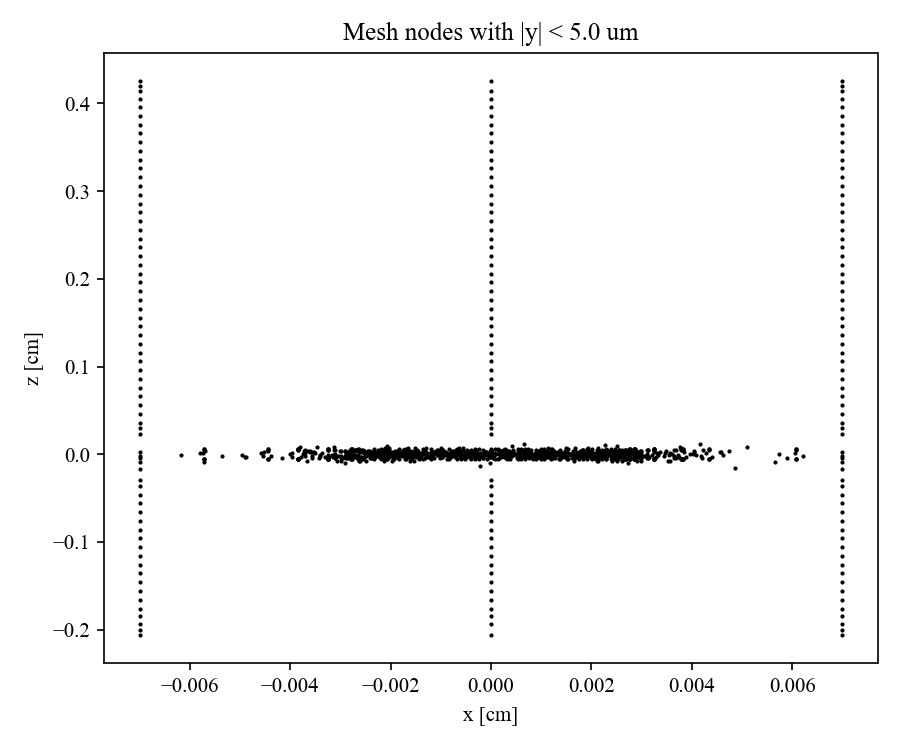
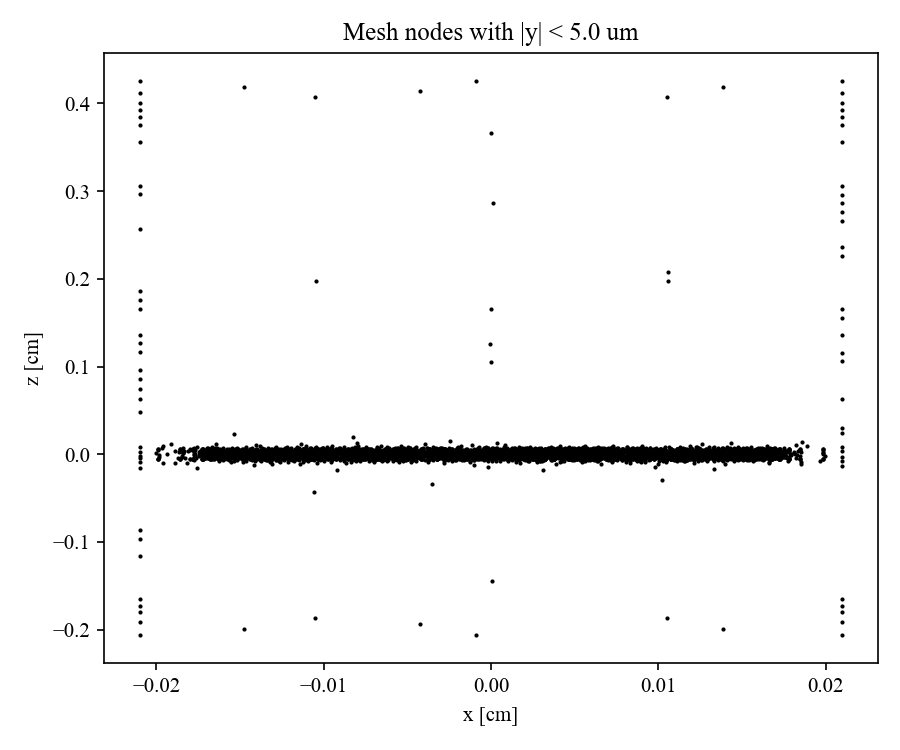
Tile the single-GEM100 test bed 3x3, confirming transfer-field dependence was masked by the untiled cell's boundary
A single, untiled hex cell has no neighboring hole for a laterally
diffusing electron to end up in, making its own lateral (x/y) domain
boundary a large loss channel -- exactly the artifact already fixed for
the 3-GEM stack (hole_centers_tiled). Add n_cells_x/n_cells_y (default
3x3, matching TripleGemTestConfig) to SingleGemTestConfig and switch
build_single_gem_field_model from hole_centers() to hole_centers_tiled(),
propagating the tiled half-extents through build_gem_layer,
build_hole_gas_volumes, and _add_gas_box (now shaped like
triple_gem_field_model.py's version).

Rebuilt+resolved single_gem100_field at both tf=2000 and tf=10000 V/cm
(21785 -> 303097 nodes, Elmer converges in ~48s) and reran the
plane-crossing scan on fresh 50-event trajectory exports.

Result: with tiling, transfer-gap penetration depth is field-dependent and
substantial even at the baseline field -- 8.8% of the extracted cohort
reaches 90% of the gap at tf=2000 V/cm (vs 0% untiled), rising to 43.2% at
tf=10000 V/cm. The lateral-boundary artifact share of "died in transfer
gap" drops from 56-93% (untiled) to 40-47% (tiled), now in line with the
3-GEM stack's own ~51%. This confirms the prior "field increase gives zero
transfer-gap improvement" conclusion was an artifact of the untiled test
bed, not real physics.

diff --git a/geometry/single_gem_field_model.py b/geometry/single_gem_field_model.py
@@ -17,7 +17,7 @@ from dataclasses import dataclass
 import gmsh
 
 from gem_params import GemLayerParams
-from gem_unit_cell import build_gem_layer, build_hole_gas_volumes, hole_centers
+from gem_unit_cell import build_gem_layer, build_hole_gas_volumes, hole_centers_tiled
 
 # Relative permittivity of the GEM's dielectric (polyimide), a standard
 # textbook value also used by the reference repository (PER_INSULATOR).
@@ -48,6 +48,18 @@ class SingleGemTestConfig:
     transfer_gap_cm: float = 0.20    # GEM1 -> GEM2, Fig. 5
     transfer_field_v_per_cm: float = 2000.0
     gem_voltage_v: float = 305.0     # potential difference across the GEM foil
+    # A single hole has no neighboring hole for an electron that diffuses
+    # sideways during a GEM avalanche to end up in, which makes the single
+    # cell's own lateral (x/y) domain boundary a large, confounding loss
+    # channel (found 2026-09-23 while re-evaluating the transfer-field scan
+    # -- see docs/debugging_notes.md -- most "died in transfer gap" tracks
+    # sat right at this single cell's edge). Tiling n_cells_x x n_cells_y
+    # real neighboring holes around the one everything is centered on, same
+    # as triple_gem_field_model.py's TripleGemTestConfig, gives diffusing
+    # electrons somewhere physically realistic to go instead. Must both be
+    # odd (tiling centered on one cell).
+    n_cells_x: int = 3
+    n_cells_y: int = 3
 
 
 def _flat_boundary_surface(volume_tag: int, z_target_cm: float) -> int:
@@ -64,11 +76,12 @@ def _flat_boundary_surface(volume_tag: int, z_target_cm: float) -> int:
     raise RuntimeError(f"No flat boundary surface found at z={z_target_cm} for volume {volume_tag}")
 
 
-def _add_gas_box(pitch_cm: float, z_bottom_cm: float, height_cm: float) -> int:
-    half_x = pitch_cm / 2.0
-    half_y = pitch_cm * math.sqrt(3.0) / 2.0
+def _add_gas_box(
+    half_extent_x_cm: float, half_extent_y_cm: float, z_bottom_cm: float, height_cm: float
+) -> int:
     return gmsh.model.occ.addBox(
-        -half_x, -half_y, z_bottom_cm, pitch_cm, pitch_cm * math.sqrt(3.0), height_cm
+        -half_extent_x_cm, -half_extent_y_cm, z_bottom_cm,
+        2.0 * half_extent_x_cm, 2.0 * half_extent_y_cm, height_cm,
     )
 
 
@@ -122,14 +135,24 @@ def build_single_gem_field_model(
     z_drift_plane = z_gem_top + test_config.drift_gap_cm
     z_transfer_plane = z_gem_bottom - test_config.transfer_gap_cm
 
-    centers = hole_centers(gem_params.pitch_cm)
-    gem_volumes = build_gem_layer(gem_params, z_center_cm=0.0)
-    drift_gas = _add_gas_box(gem_params.pitch_cm, z_gem_top, test_config.drift_gap_cm)
-    transfer_gas = _add_gas_box(gem_params.pitch_cm, z_transfer_plane, test_config.transfer_gap_cm)
+    centers = hole_centers_tiled(gem_params.pitch_cm, test_config.n_cells_x, test_config.n_cells_y)
+    half_extent_x_cm = test_config.n_cells_x * gem_params.pitch_cm / 2.0
+    half_extent_y_cm = test_config.n_cells_y * gem_params.pitch_cm * math.sqrt(3.0) / 2.0
+    gem_volumes = build_gem_layer(
+        gem_params, z_center_cm=0.0, hole_centers_list=centers,
+        half_extent_x_cm=half_extent_x_cm, half_extent_y_cm=half_extent_y_cm,
+    )
+    drift_gas = _add_gas_box(half_extent_x_cm, half_extent_y_cm, z_gem_top, test_config.drift_gap_cm)
+    transfer_gas = _add_gas_box(
+        half_extent_x_cm, half_extent_y_cm, z_transfer_plane, test_config.transfer_gap_cm
+    )
     # Fills the hole cavities (see build_hole_gas_volumes' docstring): without
     # this, the hole -- the actual gas-amplification region -- is a literal
     # gap in the mesh, with no material solved there at all.
-    hole_gas = build_hole_gas_volumes(gem_params, centers, z_center_cm=0.0)
+    hole_gas = build_hole_gas_volumes(
+        gem_params, centers, z_center_cm=0.0,
+        half_extent_x_cm=half_extent_x_cm, half_extent_y_cm=half_extent_y_cm,
+    )
 
     volume_names = (
         ["copper_top", "dielectric", "copper_bottom", "drift_gas", "transfer_gas"]
@@ -199,8 +222,8 @@ def build_single_gem_field_model(
     }
     geometry_info = {
         "pitch_cm": gem_params.pitch_cm,
-        "half_extent_x_cm": gem_params.pitch_cm / 2.0,
-        "half_extent_y_cm": gem_params.pitch_cm * math.sqrt(3.0) / 2.0,
+        "half_extent_x_cm": half_extent_x_cm,
+        "half_extent_y_cm": half_extent_y_cm,
         "z_domain_min_cm": z_transfer_plane,
         "z_domain_max_cm": z_drift_plane,
     }
